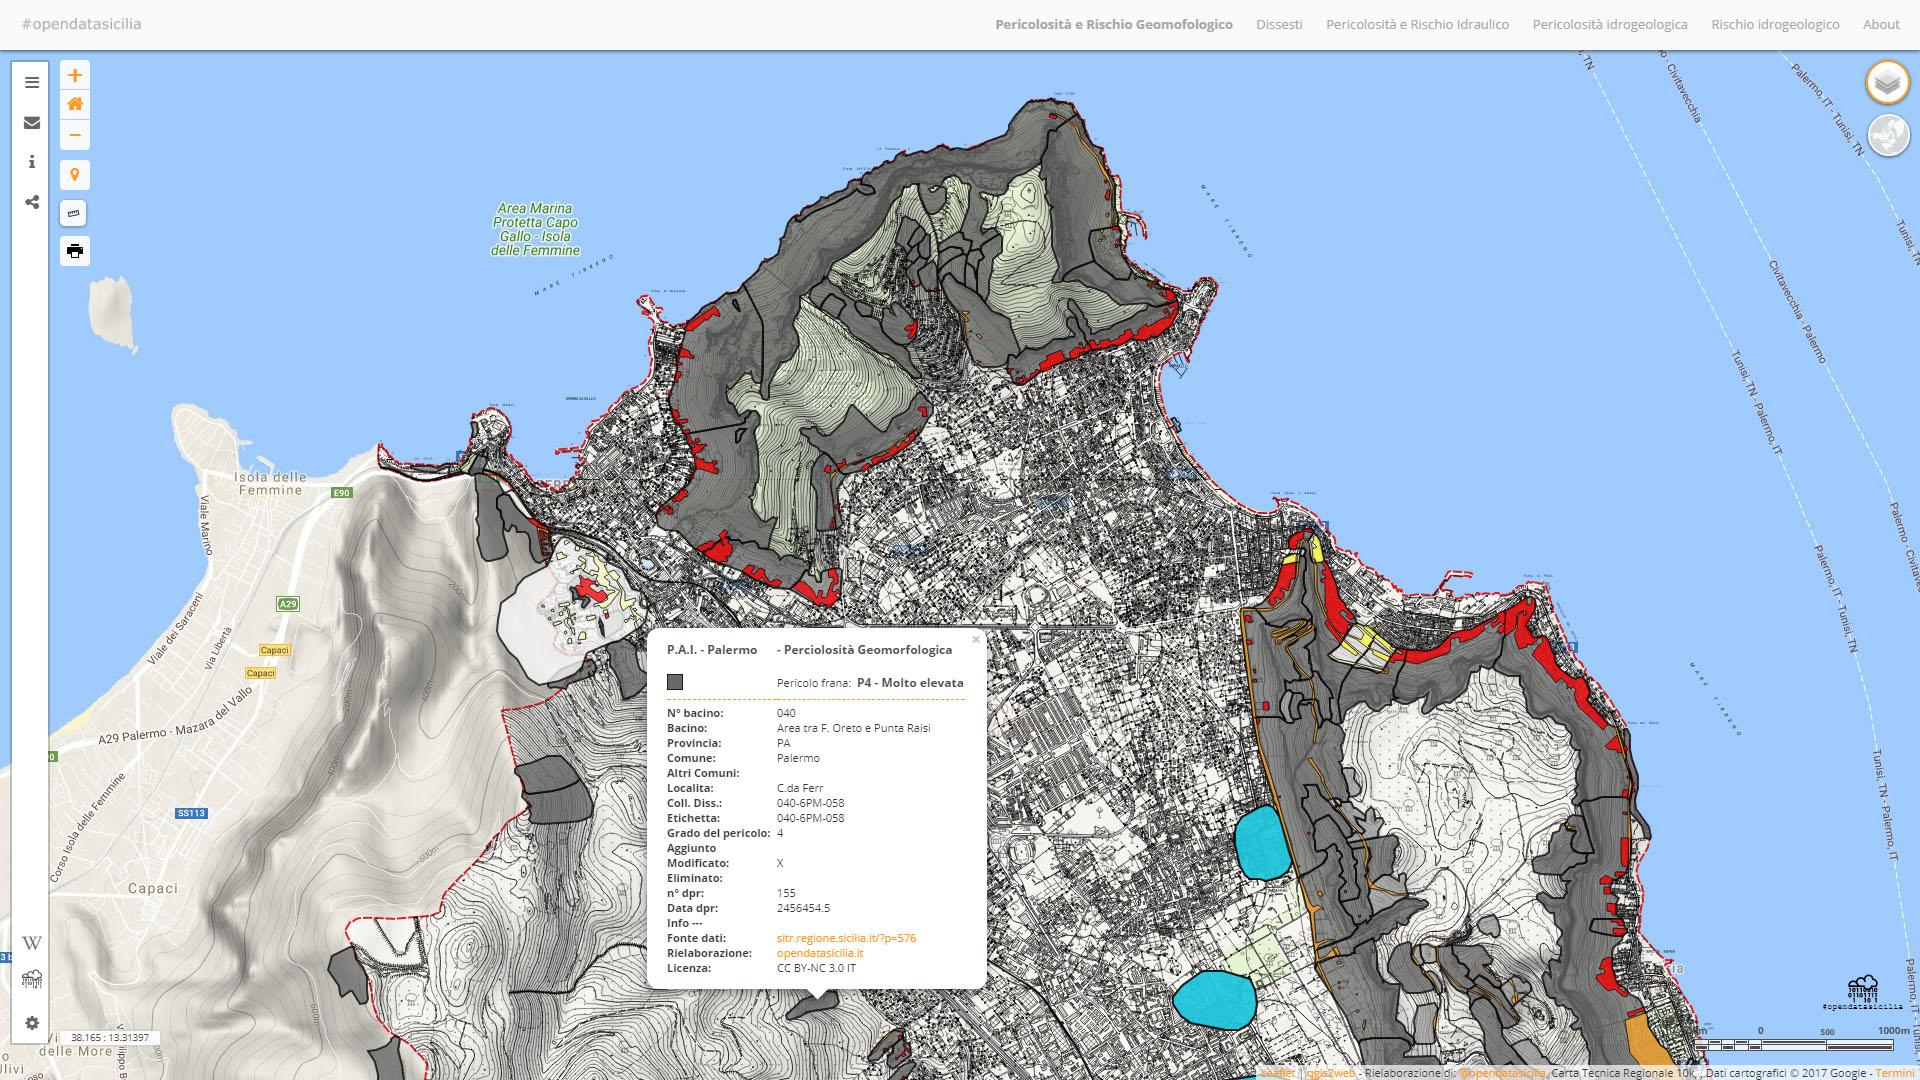
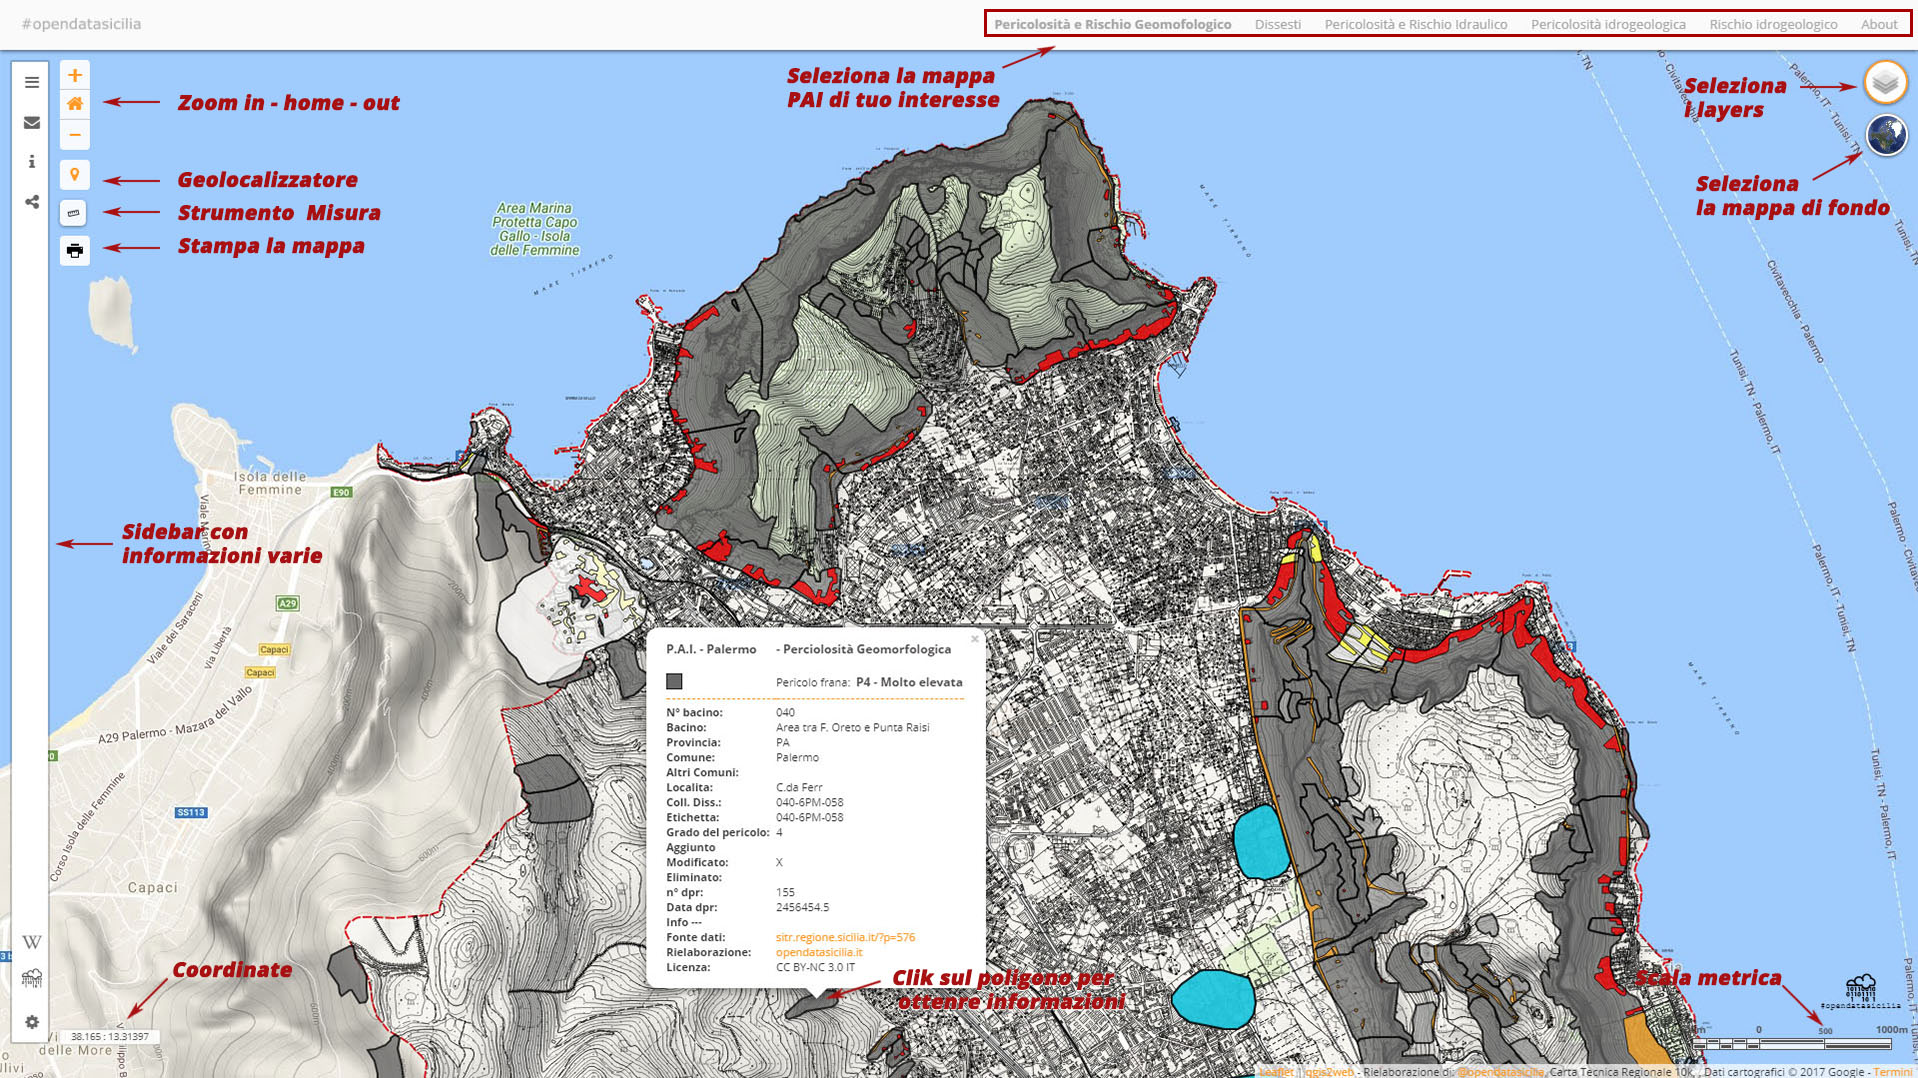
about upgrade

diff --git a/pai_palermo/about.html b/pai_palermo/about.html
@@ -173,8 +173,8 @@ Le norme di attuazione contenute nel capitolo 11 della Relazione Generale del P.
    <a href="http://www.sitr.regione.sicilia.it/?page_id=419" title="Download Cartografia" target="_blank">sitr.regione.sicilia.it</a> -  Licenza <a href="https://creativecommons.org/licenses/by-sa/3.0/it/" title="Attribuzione - Condividi allo stesso modo 3.0 Italia (CC BY-SA 3.0 IT)" target="_blank">Creative Commons Attribuzione (condividi allo stesso modo – 3.0 italia)</a><br />
     Progetto Qgis per la rappresentazione cartografica (vestizione) della CTR 10k di: <a href="https://twitter.com/aborruso" title="Andrea Borruso" target="_blank">@aborruso</a>, <a href="https://twitter.com/totofiandaca" title="Totò Fiandaca" target="_blank">@totofiandaca</a> e <a href="https://twitter.com/gbvitrano" title="Giovan Battista Vitrano" target="_blank">@gbvitrano</a> - <a href="http://opendatasicilia.it/" title="opendatasicilia.it" target="_blank">opendatasicilia.it</a></p>
   
- <p class="lorem">Navigare la mappa è semplice...coming soon...</p>
- <p class="lorem">Le funzioni basilari...coming soon...</p>
+ <p class="lorem">Navigare la mappa è semplice sia da desktop che da mobile, il layout dinamico si adatta automaticamente alla maggior parte dei browser per dispositivi mobili oggi disponibili . <br />
+   A seguire una immagine dove sono indicate tutte le  funzioni basilari della web map.</p>
  <img src="legend/wiki_map.jpg" alt="Palermo, Piano per l’Assetto Idrogeologico (P.A.I.) mappa delle pericolosità e rischio geomorfologico, realizzata con Qgis" class="clip_resize"  title="Palermo, Piano per l’Assetto Idrogeologico (P.A.I.) mappa delle pericolosità e rischio geomorfologico, realizzata con Qgis"/><br /><br />
 </main>
 		</div><!-- END .layout-left-flyout -->
